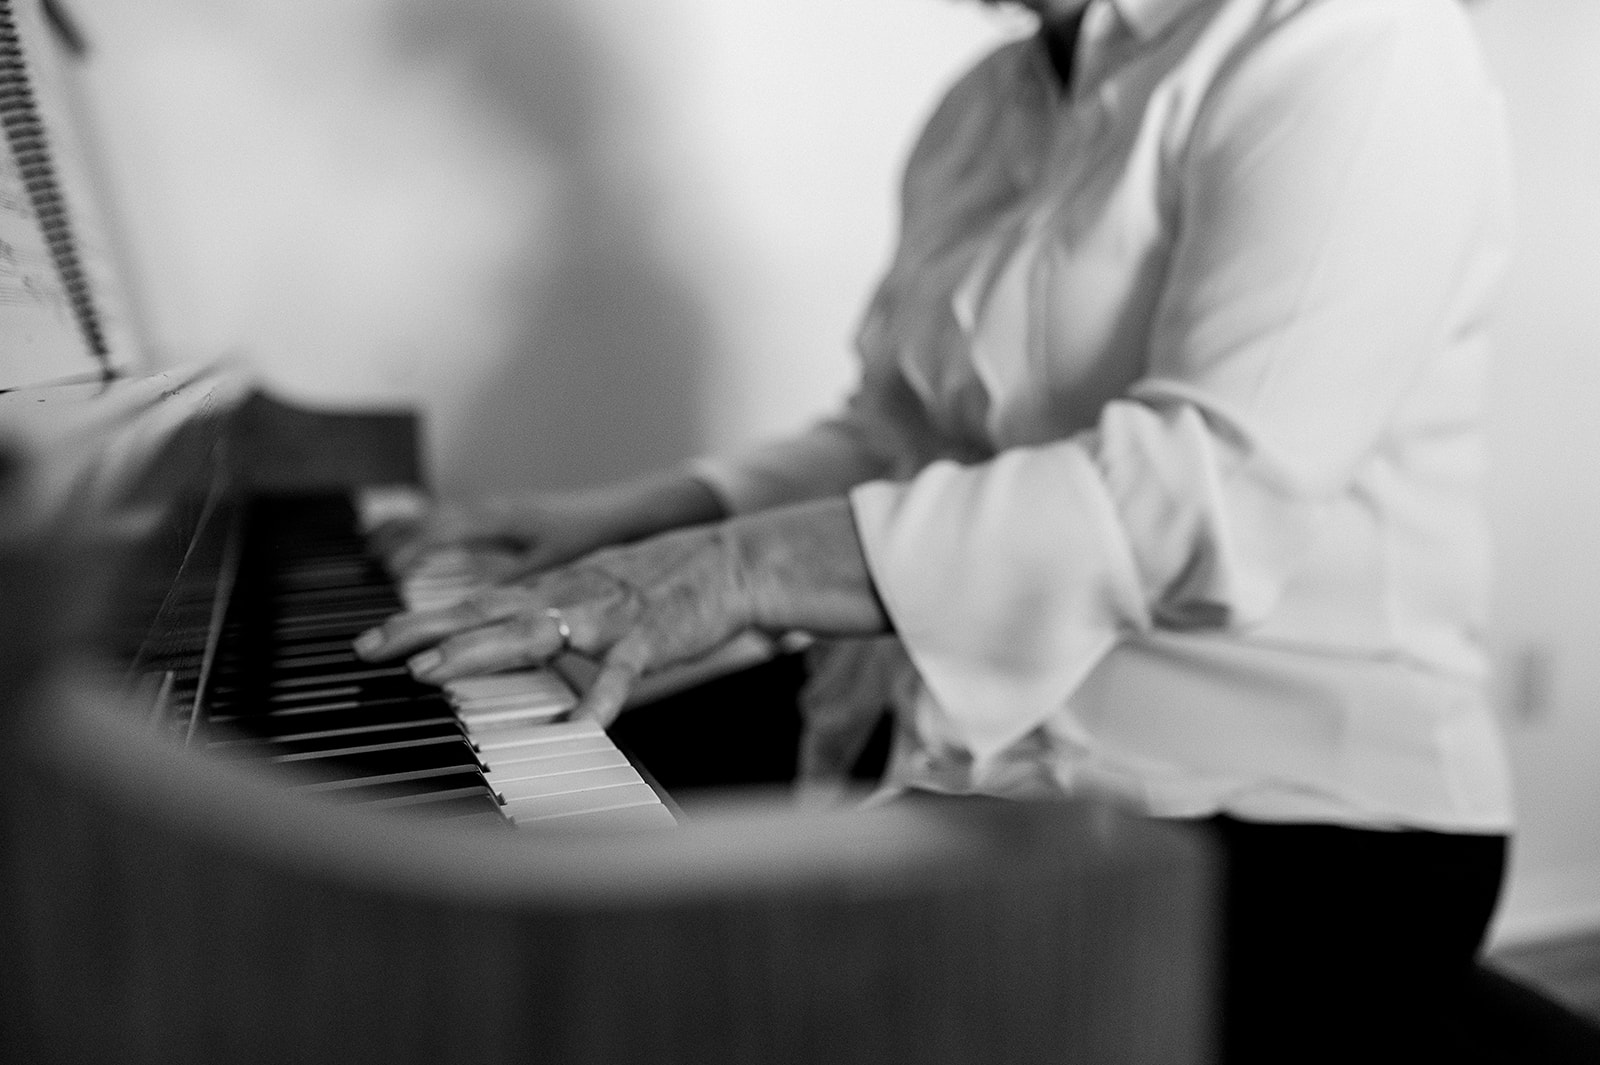
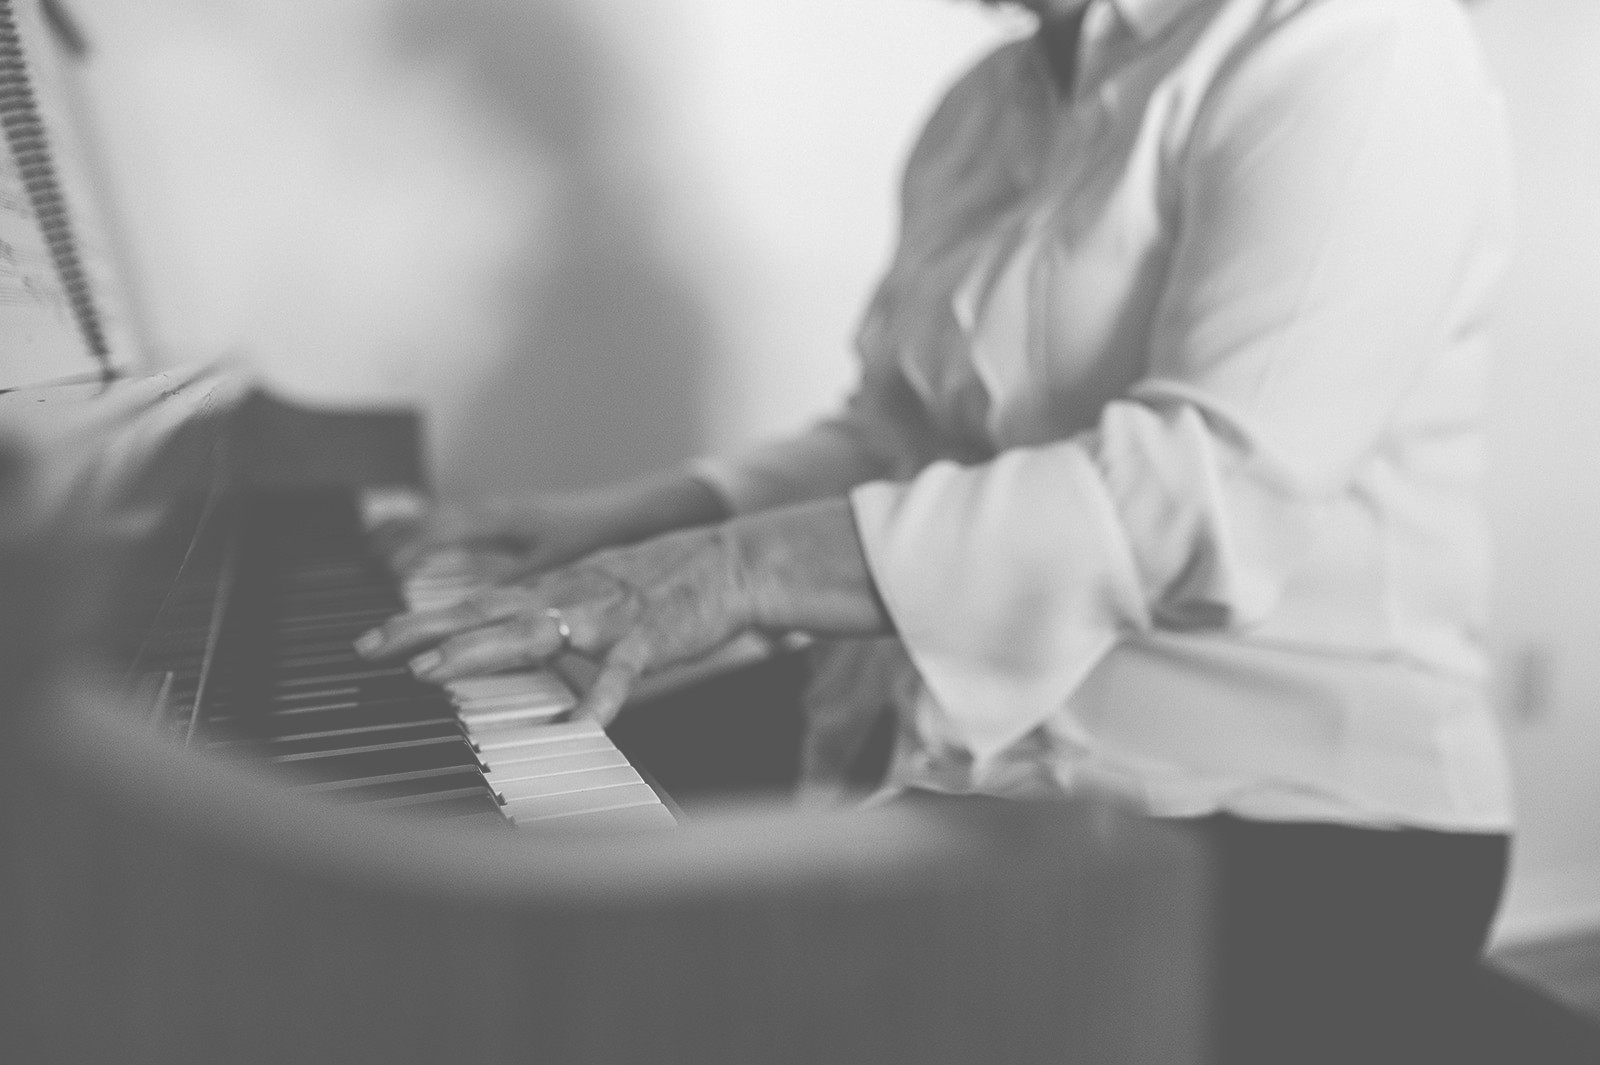
Adjusted homepage photo and text for better readability

diff --git a/index.html b/index.html
@@ -86,12 +86,12 @@
         
       </div>
       <footer>
-        <div>
-          email: lotsoftext@gmail.com
-        </div>
-        <div>
-          phone number: 123-456-7890
-        </div>
-      </footer>
+          <div>
+            email: lotsoftext@gmail.com
+          </div>
+          <div>
+            phone number: 123-456-7890
+          </div>
+        </footer>
 </body>
 </html>

diff --git a/styles.css b/styles.css
@@ -306,7 +306,8 @@ footer{
 }
 
 .fade-in-text {
-  font-size: 360%;
+  font-size: 380%;
+  font-weight: bolder;
   animation: fadeIn 5s;
   -webkit-animation: fadeIn 5s;
   -moz-animation: fadeIn 5s;
